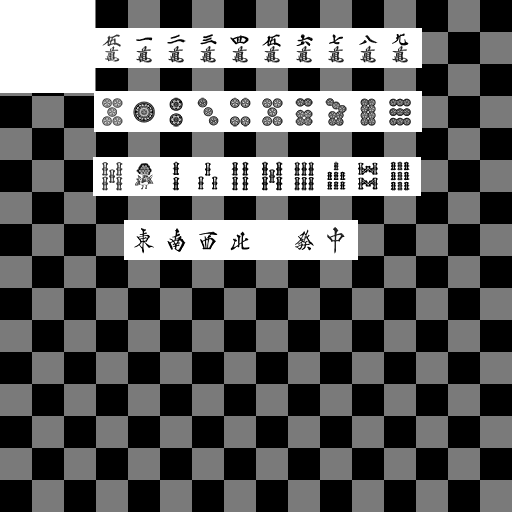
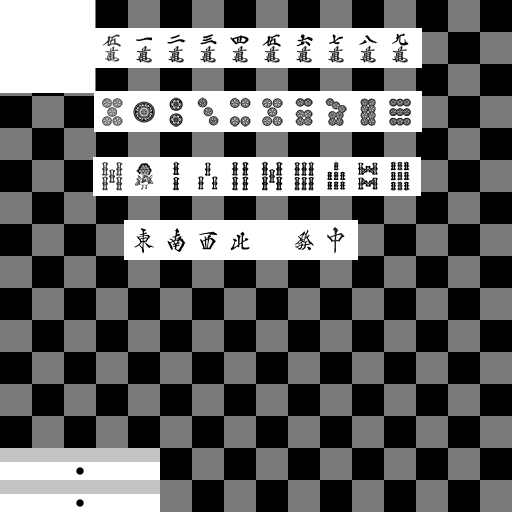
added ba mesh

Changed region(s): [[0.0, 0.875, 0.3125, 1.0]]

diff --git a/Spines.Hana.Blame/Spines.Hana.Blame/wwwroot/js/shared.js b/Spines.Hana.Blame/Spines.Hana.Blame/wwwroot/js/shared.js
@@ -1,9 +1,10 @@
 var font;
 var renderContexts = [];
 
-var _staticTileData = {
+var _staticDisplayData = {
     uvs: [new Array(10), new Array(10), new Array(10), new Array(10)],
-    geometries: [new Array(10), new Array(10), new Array(10), new Array(10)]
+    tileGeometries: [new Array(10), new Array(10), new Array(10), new Array(10)],
+    baGeometries: new Array(10)
 };
 
 function RenderContext(canvasName) {
@@ -16,6 +17,7 @@ function RenderContext(canvasName) {
     this.renderer.setSize(displayWidth, displayHeight);
     this.meshes = [];
     this.tiles = [];
+    this.ba = [];
     renderContexts.push(this);
 }
 
@@ -27,9 +29,9 @@ RenderContext.prototype.createTiles = function(arrange) {
     this.clear();
     createMaterial();
 
-    if (this.geometry === undefined) {
-        getGeometryPromise().then(g => {
-            this.geometry = g;
+    if (this.tileGeometry === undefined) {
+        Promise.all([getGeometryPromise("tile"), getGeometryPromise("ba")]).then(geometries => {
+            [this.tileGeometry, this.baGeometry] = geometries;
             arrange();
             this.render();
         });
@@ -39,14 +41,20 @@ RenderContext.prototype.createTiles = function(arrange) {
     }
 }
 
+RenderContext.prototype.createBaMesh = function (value) {
+    const index = [100, 1000, 5000, 10000].indexOf(value);
+    const geometry = this._getBaGeometry(index);
+    return new THREE.Mesh(geometry, _staticDisplayData.material);
+}
+
 RenderContext.prototype.createTileMesh = function (number, suit) {
-    const geometry = this._getGeometry(number, suit);
-    return new THREE.Mesh(geometry, _staticTileData.material);
+    const geometry = this._getTileGeometry(number, suit);
+    return new THREE.Mesh(geometry, _staticDisplayData.material);
 }
 
 RenderContext.prototype.createGhostTileMesh = function (number, suit) {
-    const geometry = this._getGeometry(number, suit);
-    return new THREE.Mesh(geometry, _staticTileData.ghostMaterial);
+    const geometry = this._getTileGeometry(number, suit);
+    return new THREE.Mesh(geometry, _staticDisplayData.ghostMaterial);
 }
 
 RenderContext.prototype.setCameraPosition = function (x, y, z) {
@@ -66,6 +74,11 @@ RenderContext.prototype.addTile = function(mesh) {
     this.tiles.push(mesh);
 }
 
+RenderContext.prototype.addBa = function (mesh) {
+    this.scene.add(mesh);
+    this.ba.push(mesh);
+}
+
 RenderContext.prototype.clear = function () {
     while (this.meshes.length > 0) {
         const tuple = this.meshes.pop();
@@ -78,6 +91,10 @@ RenderContext.prototype.clear = function () {
     }
     while (this.tiles.length > 0) {
         const mesh = this.tiles.pop();
+        this.scene.remove(mesh);
+    }
+    while (this.ba.length > 0) {
+        const mesh = this.ba.pop();
         this.scene.remove(mesh);
     }
 }
@@ -104,16 +121,16 @@ function resourceUrl(folder, filename) {
 }
 
 function createMaterial() {
-    if (_staticTileData.material === undefined) {
+    if (_staticDisplayData.material === undefined) {
         const textureLoader = new THREE.TextureLoader();
         const texture = textureLoader.load(resourceUrl("textures", "tile.png"));
         const bump = textureLoader.load(resourceUrl("bumpmaps", "tile.png"));
-        _staticTileData.material = new THREE.MeshPhongMaterial({
+        _staticDisplayData.material = new THREE.MeshPhongMaterial({
             map: texture,
             bumpMap: bump,
             bumpScale: 0.2
         });
-        _staticTileData.ghostMaterial = new THREE.MeshPhongMaterial({
+        _staticDisplayData.ghostMaterial = new THREE.MeshPhongMaterial({
             map: texture,
             bumpMap: bump,
             bumpScale: 0.2,
@@ -122,10 +139,10 @@ function createMaterial() {
     }
 }
 
-function getGeometryPromise() {
+function getGeometryPromise(name) {
     return new Promise(resolve => {
         var jsonloader = new THREE.JSONLoader();
-        jsonloader.load(resourceUrl("geometries", "tile.json"),
+        jsonloader.load(resourceUrl("geometries", name + ".json"),
             function (g) {
                 resolve(g);
             }
@@ -144,41 +161,52 @@ function createCamera(width, height) {
     return new THREE.PerspectiveCamera(fov, cameraAspect, near, far);
 }
 
-RenderContext.prototype._getGeometry = function (number, suit) {
-    if (_staticTileData.geometries[suit][number] === undefined) {
-        const g = new THREE.Geometry();
-        g.boundingBox = this.geometry.boundingBox;
-        g.boundingSphere = this.geometry.boundingSphere;
-        g.colors = this.geometry.colors;
-        g.colorsNeedUpdate = this.geometry.colorsNeedUpdate;
-        g.elementsNeedUpdate = this.geometry.elementsNeedUpdate;
-        //g.faceVertexUvs = this.geometry.faceVertexUvs;
-        g.faces = this.geometry.faces;
-        g.groupsNeedUpdate = this.geometry.groupsNeedUpdate;
-        g.lineDistances = this.geometry.lineDistances;
-        g.morphNormals = this.geometry.morphNormals;
-        g.morphTargets = this.geometry.morphTargets;
-        g.name = this.geometry.name;
-        g.normalsNeedUpdate = this.geometry.normalsNeedUpdate;
-        g.skinIndices = this.geometry.skinIndices;
-        g.skinWeights = this.geometry.skinWeights;
-        g.type = this.geometry.type;
-        //g.uuid = this.geometry.uuid;
-        g.uvsNeedUpdate = this.geometry.uvsNeedUpdate;
-        g.vertices = this.geometry.vertices;
-        g.verticesNeedUpdate = this.geometry.verticesNeedUpdate;
-        //g.id = this.geometry.id;
-
+RenderContext.prototype._getTileGeometry = function (number, suit) {
+    if (_staticDisplayData.tileGeometries[suit][number] === undefined) {
+        const g = this._cloneGeometry(this.tileGeometry);
         g.faceVertexUvs = this._getUvs(suit, number);
-
-        _staticTileData.geometries[suit][number] = g;
+        _staticDisplayData.tileGeometries[suit][number] = g;
     }
+    return _staticDisplayData.tileGeometries[suit][number];
+}
 
-    return _staticTileData.geometries[suit][number];
+RenderContext.prototype._getBaGeometry = function (index) {
+    if (_staticDisplayData.baGeometries[index] === undefined) {
+        const g = this._cloneGeometry(this.baGeometry);
+        g.faceVertexUvs = this.baGeometry.faceVertexUvs;
+        _staticDisplayData.baGeometries[index] = g;
+    }
+    return _staticDisplayData.baGeometries[index];
+}
+
+RenderContext.prototype._cloneGeometry = function (source) {
+    const g = new THREE.Geometry();
+    g.boundingBox = source.boundingBox;
+    g.boundingSphere = source.boundingSphere;
+    g.colors = source.colors;
+    g.colorsNeedUpdate = source.colorsNeedUpdate;
+    g.elementsNeedUpdate = source.elementsNeedUpdate;
+    //g.faceVertexUvs = source.faceVertexUvs;
+    g.faces = source.faces;
+    g.groupsNeedUpdate = source.groupsNeedUpdate;
+    g.lineDistances = source.lineDistances;
+    g.morphNormals = source.morphNormals;
+    g.morphTargets = source.morphTargets;
+    g.name = source.name;
+    g.normalsNeedUpdate = source.normalsNeedUpdate;
+    g.skinIndices = source.skinIndices;
+    g.skinWeights = source.skinWeights;
+    g.type = source.type;
+    //g.uuid = source.uuid;
+    g.uvsNeedUpdate = source.uvsNeedUpdate;
+    g.vertices = source.vertices;
+    g.verticesNeedUpdate = source.verticesNeedUpdate;
+    //g.id = source.id;
+    return g;
 }
 
 RenderContext.prototype._getUvs = function (suit, number) {
-    if (_staticTileData.uvs[suit][number] === undefined) {
+    if (_staticDisplayData.uvs[suit][number] === undefined) {
         const left = (100 + number * 32) / 512;
         const right = (100 + 24 + number * 32) / 512;
         const top = (512 - 32 - 64 * suit) / 512;
@@ -188,11 +216,11 @@ RenderContext.prototype._getUvs = function (suit, number) {
         const c = new THREE.Vector2(left, bottom);
         const d = new THREE.Vector2(right, top);
 
-        const uvs = this.geometry.faceVertexUvs.slice(0);
+        const uvs = this.tileGeometry.faceVertexUvs.slice(0);
         uvs[0] = uvs[0].slice(0);
         uvs[0][3] = [a, b, c];
         uvs[0][153] = [a, d, b];
-        _staticTileData.uvs[suit][number] = uvs;
+        _staticDisplayData.uvs[suit][number] = uvs;
     }
-    return _staticTileData.uvs[suit][number];
+    return _staticDisplayData.uvs[suit][number];
 }

diff --git a/Spines.Hana.Blame/Spines.Hana.Blame/wwwroot/js/replay.js b/Spines.Hana.Blame/Spines.Hana.Blame/wwwroot/js/replay.js
@@ -11,7 +11,8 @@ const _ids = {
     discardOffset: 2,
     agari: 50,
     ryuukyoku: 51,
-    reach: 52,
+    riichi: 52,
+    riichiPayment: 60,
     dora: 53,
     rinshan: 54,
     pon: 55,
@@ -25,7 +26,7 @@ const allHandsOpen = true;
 const showGhostTiles = false;
 
 const announcements = {
-    reach: { text: "reach" },
+    riichi: { text: "riichi" },
     pon: { text: "pon" },
     chii: { text: "chii" },
     kan: { text: "kan" },
@@ -77,6 +78,7 @@ function arrangeFrame(frame) {
     createHands(frame);
     createPonds(frame);
     createAnnouncements(frame);
+    createBa(frame);
 }
 
 function parseReplay(data) {
@@ -97,7 +99,7 @@ function parseReplay(data) {
         setupFrame.static = { wall: data.games[gameId].wall, dice: data.games[gameId].dice, akaDora: akaDora, playerCount: playerCount, oya: data.games[gameId].oya };
         setStartingHands(setupFrame);
         setupFrame.ponds = [[], [], [], []];
-        setupFrame.players = [{ reach: false }, { reach: false }, { reach: false }, { reach: false }];
+        setupFrame.players = [{ riichi: false }, { riichi: false }, { riichi: false }, { riichi: false }];
         game.frames.push(setupFrame);
 
         let previousFrame = setupFrame;
@@ -154,10 +156,14 @@ function parseReplay(data) {
                 const frame = createRyuukyokuFrame(previousFrame);
                 game.frames.push(frame);
                 previousFrame = frame;
-            } else if (decision === _ids.reach) {
-                const reachFrame = createReachFrame(previousFrame);
-                game.frames.push(reachFrame);
-                previousFrame = reachFrame;
+            } else if (decision === _ids.riichi) {
+                const frame = createRiichiFrame(previousFrame);
+                game.frames.push(frame);
+                previousFrame = frame;
+            } else if (decision === _ids.riichiPayment) {
+                const frame = createRiichiPaymentFrame(previousFrame);
+                game.frames.push(frame);
+                previousFrame = frame;
             } else if (decision === _ids.dora) {
                 const frame = createDoraFrame(previousFrame);
                 game.frames.push(frame);
@@ -303,12 +309,17 @@ function createCallFrames(previousFrame, meldedTiles, announcement) {
     return [announcementFrame, frame];
 }
 
-function createReachFrame(previousFrame) {
+function createRiichiFrame(previousFrame) {
     const frame = cloneFrame(previousFrame);
     frame.players = frame.players.slice(0);
     frame.players[frame.activePlayer] = Object.assign({}, frame.players[frame.activePlayer]);
-    frame.players[frame.activePlayer].announcement = announcements.reach;
-    frame.players[frame.activePlayer].reach = true;
+    frame.players[frame.activePlayer].announcement = announcements.riichi;
+    frame.players[frame.activePlayer].riichi = true;
+    return frame;
+}
+
+function createRiichiPaymentFrame(previousFrame) {
+    const frame = cloneFrame(previousFrame);
     return frame;
 }
 
@@ -324,7 +335,7 @@ function createTsumogiriFrame(previousFrame) {
     frame.hands[frame.activePlayer] = hand;
     frame.ponds = frame.ponds.slice(0);
     const pond = frame.ponds[frame.activePlayer].slice(0);
-    const flipped = frame.players[frame.activePlayer].reach && !pond.some(p => p.flipped && !p.meld);
+    const flipped = frame.players[frame.activePlayer].riichi && !pond.some(p => p.flipped && !p.meld);
     pond.push({ tileId: tileId, flipped: flipped });
     frame.ponds[frame.activePlayer] = pond;
     return frame;
@@ -345,7 +356,7 @@ function createDiscardFrame(previousFrame, indexInHand) {
     frame.hands[frame.activePlayer] = hand;
     frame.ponds = frame.ponds.slice(0);
     const pond = frame.ponds[frame.activePlayer].slice(0);
-    const flipped = frame.players[frame.activePlayer].reach && !pond.some(p => p.flipped && !p.meld);
+    const flipped = frame.players[frame.activePlayer].riichi && !pond.some(p => p.flipped && !p.meld);
     pond.push({ tileId: tileId, flipped: flipped });
     frame.ponds[frame.activePlayer] = pond;
     return frame;
@@ -452,6 +463,22 @@ function createPondRow(pondRow, row, playerId) {
             addTile(playerId, tileId, x, y, 0, 0, flip);
         }
         x += tileWidth;
+    }
+}
+
+function createBa(frame) {
+
+    const playerCount = frame.static.playerCount;
+    for (let i = 0; i < playerCount; i++) {
+        const mesh = replayContext.createBaMesh(1000);
+
+        mesh.rotateZ(Math.PI * 0.5 * i);
+        //mesh.translateX(1);
+        mesh.translateY(1.5);
+        mesh.rotateY(Math.PI * 0.5);
+        mesh.rotateZ(Math.PI * 0.5);
+
+        replayContext.addBa(mesh);
     }
 }
 

diff --git a/Spines.Hana.Blame/Spines.Hana.Blame/Services/ReplayManager/Replay.cs b/Spines.Hana.Blame/Spines.Hana.Blame/Services/ReplayManager/Replay.cs
@@ -151,7 +151,11 @@ namespace Spines.Hana.Blame.Services.ReplayManager
             var step = e.Attribute("step")?.Value;
             if (step == "1")
             {
-              game.Actions.Add(Ids.Reach);
+              game.Actions.Add(Ids.Riichi);
+            }
+            else
+            {
+              game.Actions.Add(Ids.RiichiPayment);
             }
             break;
           case "RYUUKYOKU":
@@ -196,7 +200,8 @@ namespace Spines.Hana.Blame.Services.ReplayManager
       public const int DiscardOffset = 2;
       public const int Agari = 50;
       public const int Ryuukyoku = 51;
-      public const int Reach = 52;
+      public const int Riichi = 52;
+      public const int RiichiPayment = 60;
       public const int Dora = 53;
       public const int Rinshan = 54;
       public const int Pon = 55;

diff --git a/Spines.Tools/GeometryConverter/Program.cs b/Spines.Tools/GeometryConverter/Program.cs
@@ -21,11 +21,9 @@ namespace GeometryConverter
     private static void Main(string[] args)
     {
       Console.WriteLine("Source:");
-      //var sourcePath = Console.ReadLine();
-      const string sourcePath = @"D:\Johannes\Desktop\textures\tile.obj";
+      var sourcePath = Console.ReadLine();
       Console.WriteLine("Target:");
-      //var targetPath = Console.ReadLine();
-      var targetPath = @"D:\Johannes\Desktop\textures\converted.json";
+      var targetPath = Console.ReadLine();
 
       var source = File.ReadAllLines(sourcePath);
       var vertices = GetVertices(source).ToList();
